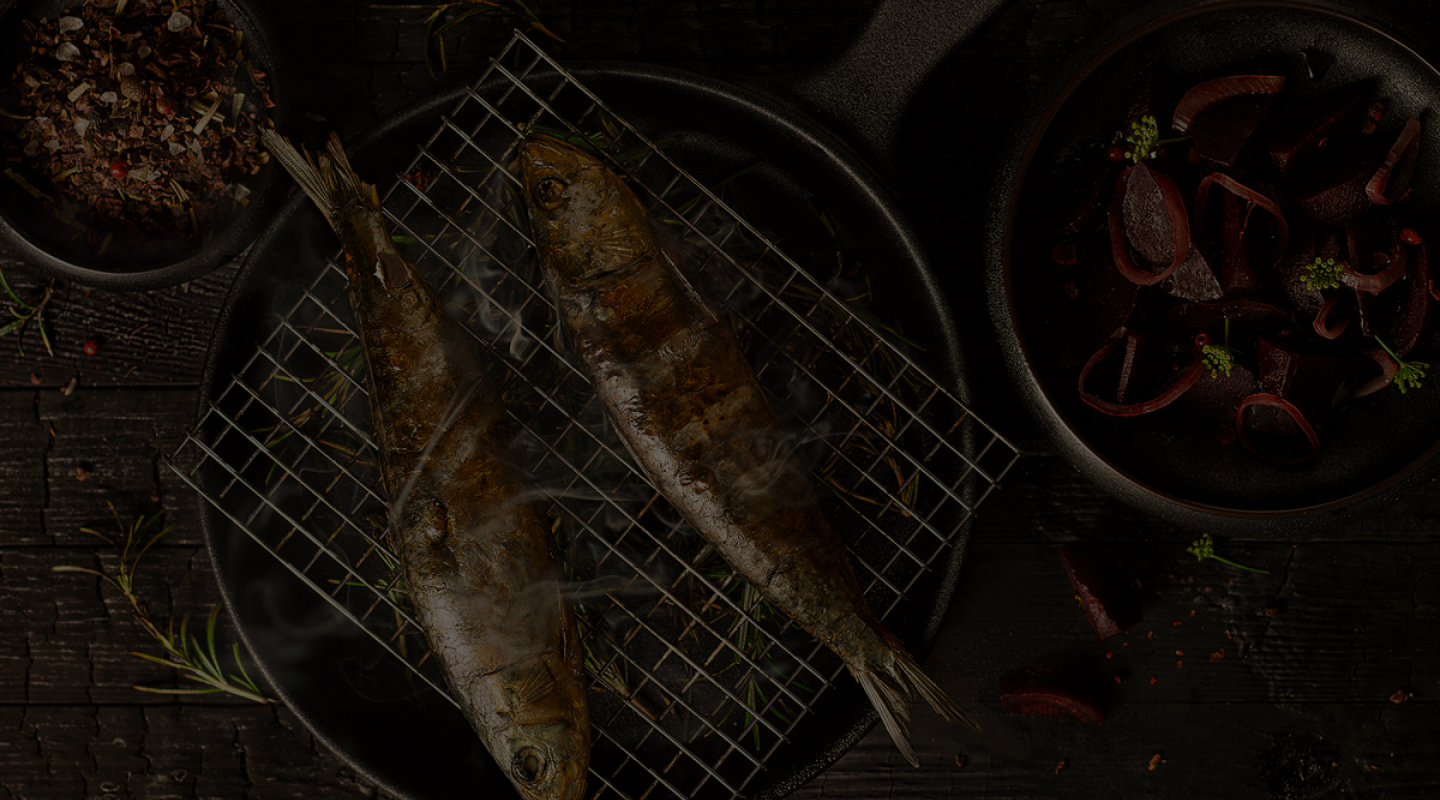
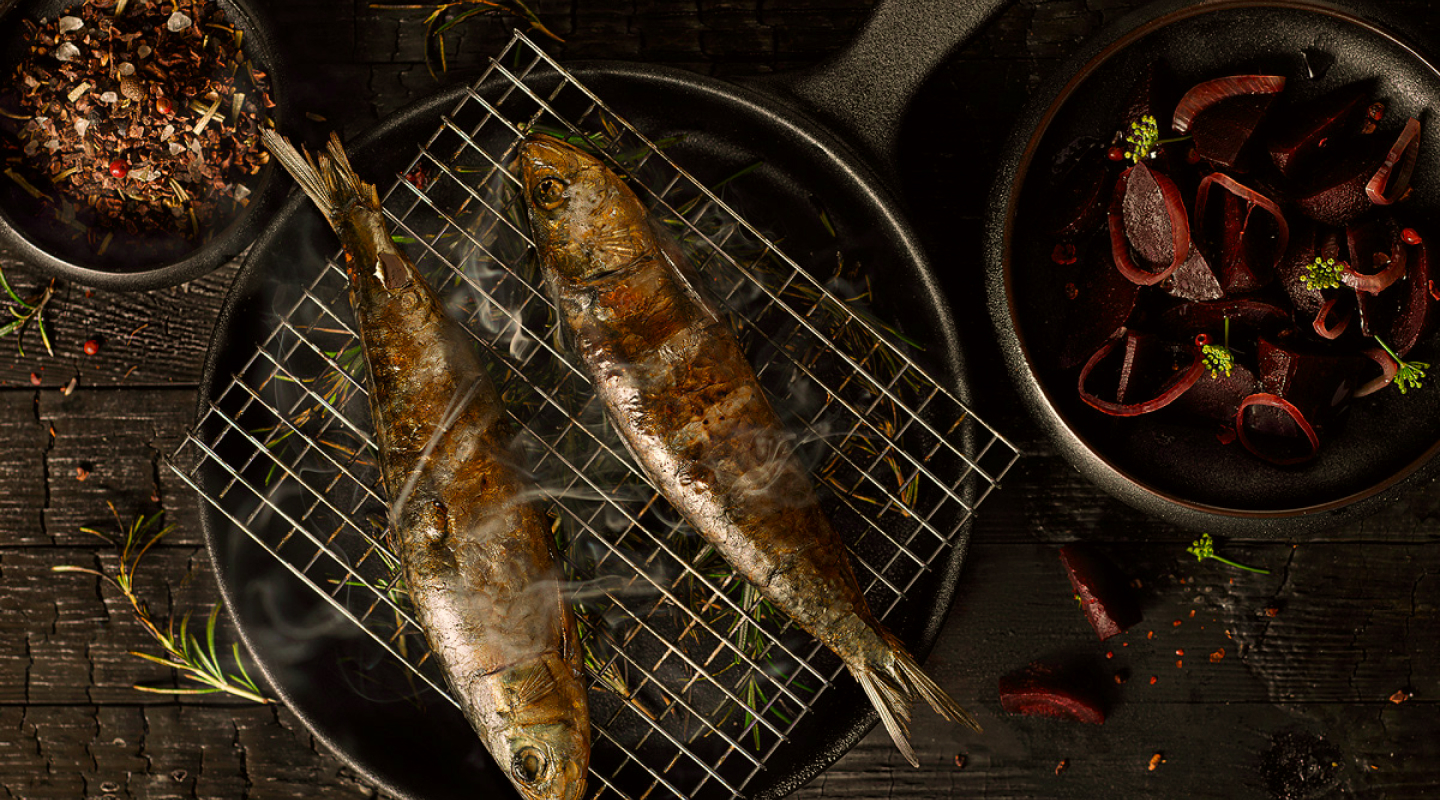
Finish about and team section

diff --git a/src/sass/main.sass b/src/sass/main.sass
@@ -3,6 +3,7 @@
 // VARIABLES START
 
 $color-fill: #E8C300
+$filter: rbga(0, 0, 0, .6)
 // VARIABLES END
 
 // RESET START
@@ -40,15 +41,119 @@ html
   padding-left: 80px
   margin: 0 auto
 
+section, .header
+  margin-bottom: 78px
+
+
+.grid
+  &-container
+    display: grid
+    grid-template-columns: 1fr 1fr
+    column-gap: 80px
+  &-left,
+  &-right
+    display: flex
+    flex-direction: column
+    justify-content: center
+    align-items: center
+
+.heading
+  text-align: center
+  font-family: 'Open Sans'
+  font-weight: 700
+  font-size: 12px
+  letter-spacing: 0.5em
+
+.title
+  position: relative
+
+  font-family: 'Banny Round'
+  font-weight: 700
+  line-height: 125%
+  font-size: 36px
+  text-align: center
+
+  &::after
+    content: ''
+    position: absolute
+    bottom: -15px
+    left: calc(50% - 30px)
+
+    display: block
+    height: 5px
+    width: 60px
+
+    background-color: $color-fill
+    border-radius: 5px
+
+.subtitle
+  font-weight: 700
+  font-size: 18px
+  text-align: center
+
+.text
+  text-align: center
+
+.color_light
+  color: #ffffff
+
+.picture
+  position: relative
+  
+  max-width: 475px
+  max-height: 475px
+  
+  &-decor
+    &::after
+      content: ''
+      position: absolute
+      top: 25%
+    
+      height: 250px
+      width: 250px
+  
+      background: radial-gradient(transparent, rgba(0, 0, 0, 0.1))  
+      border: 20px solid #E8C300
+      border-radius: 5px
+      box-shadow: 0px 0px 100px 10px rgba(0, 0, 0, 0.1)
+    &_right::after
+      right: -25%
+    &_left::after
+      left: -25%
+  
+.img
+  object-fit: cover
+  height: 100%
+  width: 100%
+  overflow: hidden
+
+  border-radius: 5px
+  box-shadow: 0px 0px 50px rgba(0, 0, 0, 0.5)
+
+
+
 // GLOBAL END
+
+// COMMON START
+
+.about,
+.team
+  &__title
+    margin-bottom: 10px
+  &__subtitle
+    margin-bottom: 20px
+  &__heading
+    margin-bottom: 40px
+
+// COMMON END
 
 // HEADER START
 
 .header
   height: 100vh
-  width: 100vw
+  width: 100%
 
-  background: url('img/header-bg.jpg')
+  background: linear-gradient(rgba(0, 0, 0, 0.6), rgba(0, 0, 0, 0.6)), url('img/header-bg.jpg')
   background-repeat: no-repeat
   background-size: cover
   background-position: 50%
@@ -223,3 +328,13 @@ html
 
 
 // HEADER END
+
+// TEAM START
+
+.team
+  padding-top: 30px
+  padding-bottom: 100px
+
+  background: linear-gradient(rgba(0, 0, 0, 0.6), rgba(0, 0, 0, 0.6)), url('img/team-bg.jpg')
+  background-repeat: no-repeat
+  background-size: cover
